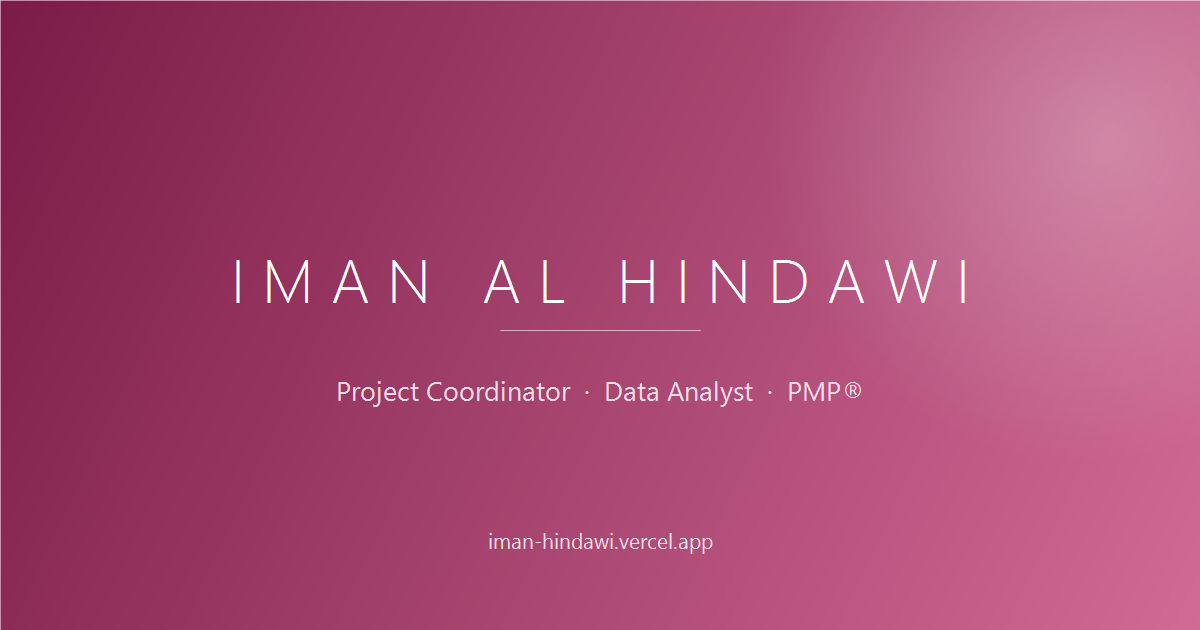
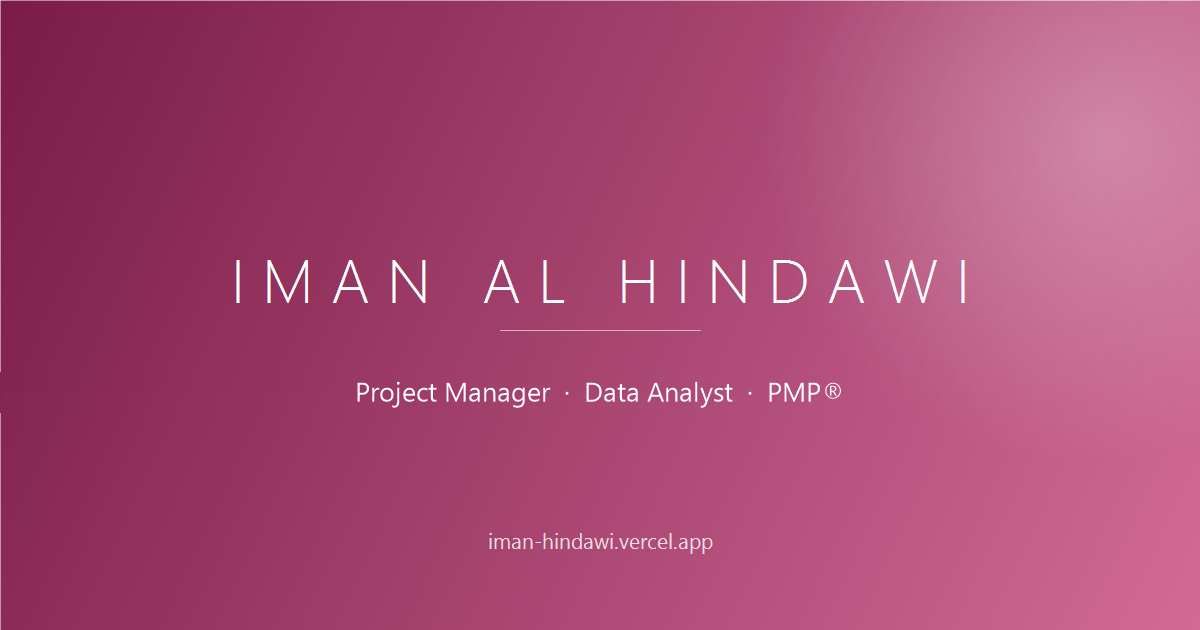
Say Project Manager, not Project Coordinator, in the sharing card
The site's own tagline has read Project Manager for a while, but the link
preview did not. The home page's title and meta description are what the SEO
head falls back to when no per-page wording is set in the dashboard, and those
still carried the old job title - as did og-image.png, the picture in the card.

The picture is the same artwork; only the one line of type is redrawn. The
gradient behind it was rebuilt by interpolating between the clean rows either
side of the line, which reproduces it to within 1.4/255, and the replacement
type was matched to the original by pixel diff (Segoe UI 27px).

og:image gains a ?v=2 so a chat app or CDN holding the old card fetches the
new one instead.

Changed region(s): [[0.2775, 0.6032, 0.74, 0.6635]]

diff --git a/server.js b/server.js
@@ -1228,7 +1228,10 @@ app.delete('/api/messages/:id', requireAuth, async (req, res) => {
 // content is written into the HTML here, before it is sent, and the client-side
 // hydrate() then writes the identical values over the top.
 const SITE_URL = (process.env.SITE_URL || 'https://iman-hindawi.vercel.app').replace(/\/$/, '');
-const OG_IMAGE = `${SITE_URL}/og-image.png`;
+// The version tag is bumped whenever the picture itself is redrawn. The file
+// name has to stay put (it is a plain static asset), so without it a chat app
+// or a CDN that already has the old card keeps serving it indefinitely.
+const OG_IMAGE = `${SITE_URL}/og-image.png?v=2`;
 
 const PAGES_SEO = [
   { path: '/', file: 'index.html', section: null },

diff --git a/public/index.html b/public/index.html
@@ -4,7 +4,7 @@
   <meta charset="UTF-8" />
   <meta name="viewport" content="width=device-width, initial-scale=1.0" />
   <title>Iman Al Hindawi — Home</title>
-  <meta name="description" content="Iman Al Hindawi — Project Coordinator, Data Analyst (PMP®). Project management, Power BI analytics, and web projects. Beirut, Lebanon." />
+  <meta name="description" content="Iman Al Hindawi — Project Manager, Data Analyst (PMP®). Project management, Power BI analytics, and web projects. Beirut, Lebanon." />
   <link rel="icon" href="/favicon.ico?v=2" sizes="any" />
   <link rel="icon" type="image/svg+xml" href="/favicon.svg?v=2" />
   <link rel="icon" type="image/png" sizes="32x32" href="/favicon-32x32.png?v=2" />

diff --git a/public/contact.html b/public/contact.html
@@ -4,7 +4,7 @@
   <meta charset="UTF-8" />
   <meta name="viewport" content="width=device-width, initial-scale=1.0" />
   <title>Contact — Iman Al Hindawi</title>
-  <meta name="description" content="Get in touch with Iman Al Hindawi — project coordination, data analytics, or a new website. Based in Beirut, Lebanon." />
+  <meta name="description" content="Get in touch with Iman Al Hindawi — project management, data analytics, or a new website. Based in Beirut, Lebanon." />
   <link rel="icon" href="/favicon.ico?v=2" sizes="any" />
   <link rel="icon" type="image/svg+xml" href="/favicon.svg?v=2" />
   <link rel="icon" type="image/png" sizes="32x32" href="/favicon-32x32.png?v=2" />

diff --git a/public/iman-lifestyle.html b/public/iman-lifestyle.html
@@ -4,7 +4,7 @@
   <meta charset="UTF-8" />
   <meta name="viewport" content="width=device-width, initial-scale=1.0" />
   <title>Iman Lifestyle — Iman Al Hindawi</title>
-  <meta name="description" content="Iman Lifestyle — a personal page by Iman Al Hindawi, Project Coordinator and Data Analyst in Beirut." />
+  <meta name="description" content="Iman Lifestyle — a personal page by Iman Al Hindawi, Project Manager and Data Analyst in Beirut." />
   <link rel="icon" href="/favicon.ico?v=2" sizes="any" />
   <link rel="icon" type="image/svg+xml" href="/favicon.svg?v=2" />
   <link rel="icon" type="image/png" sizes="32x32" href="/favicon-32x32.png?v=2" />
